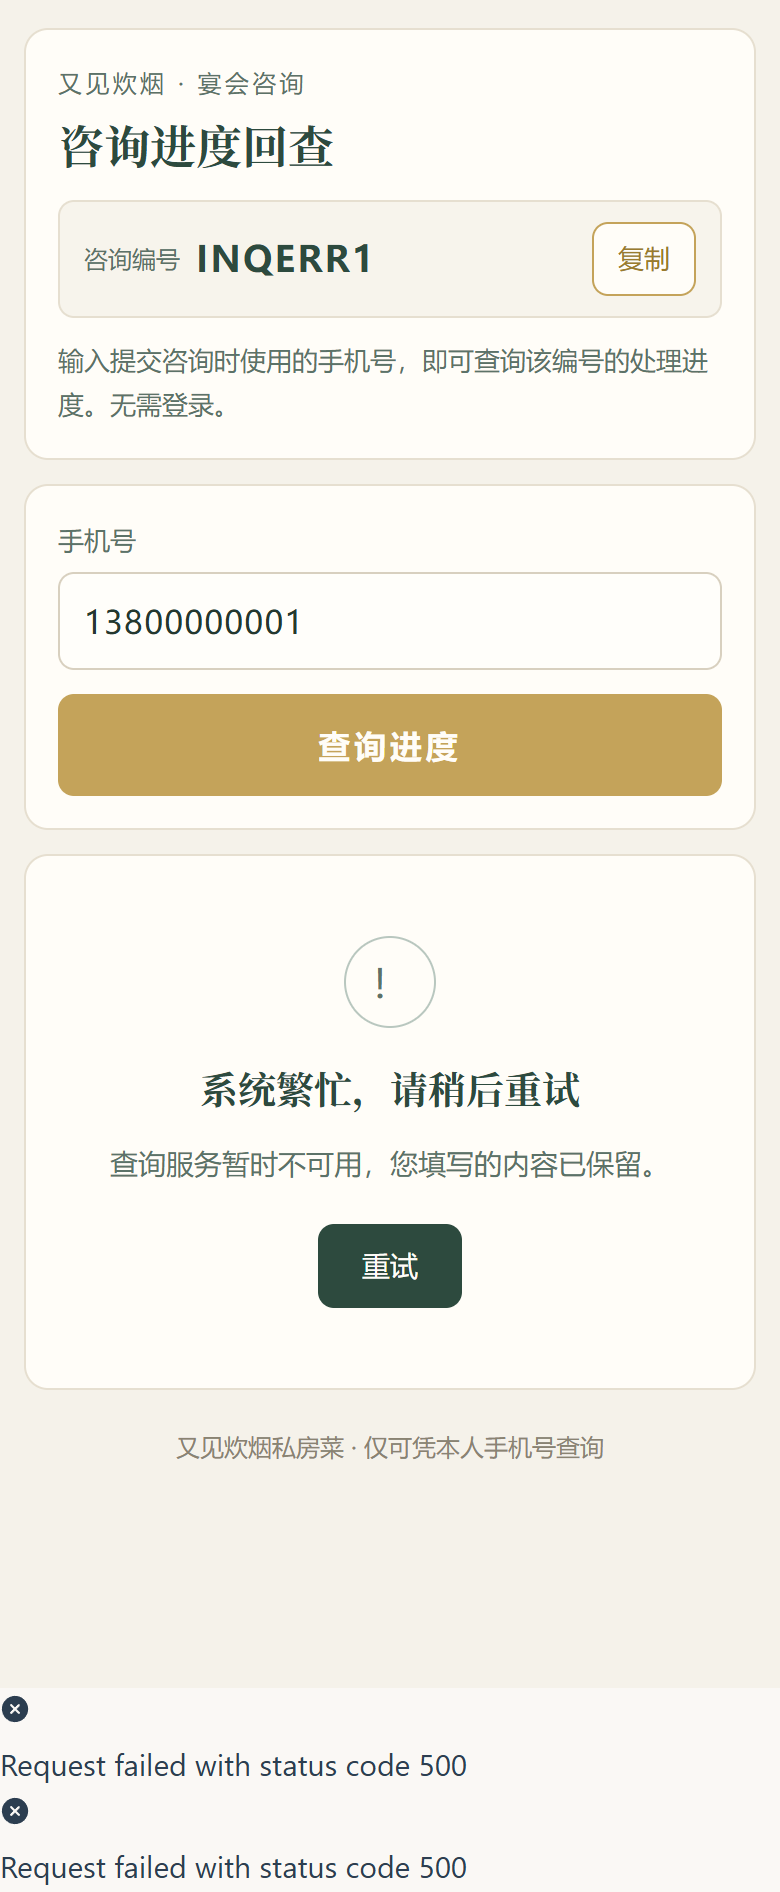
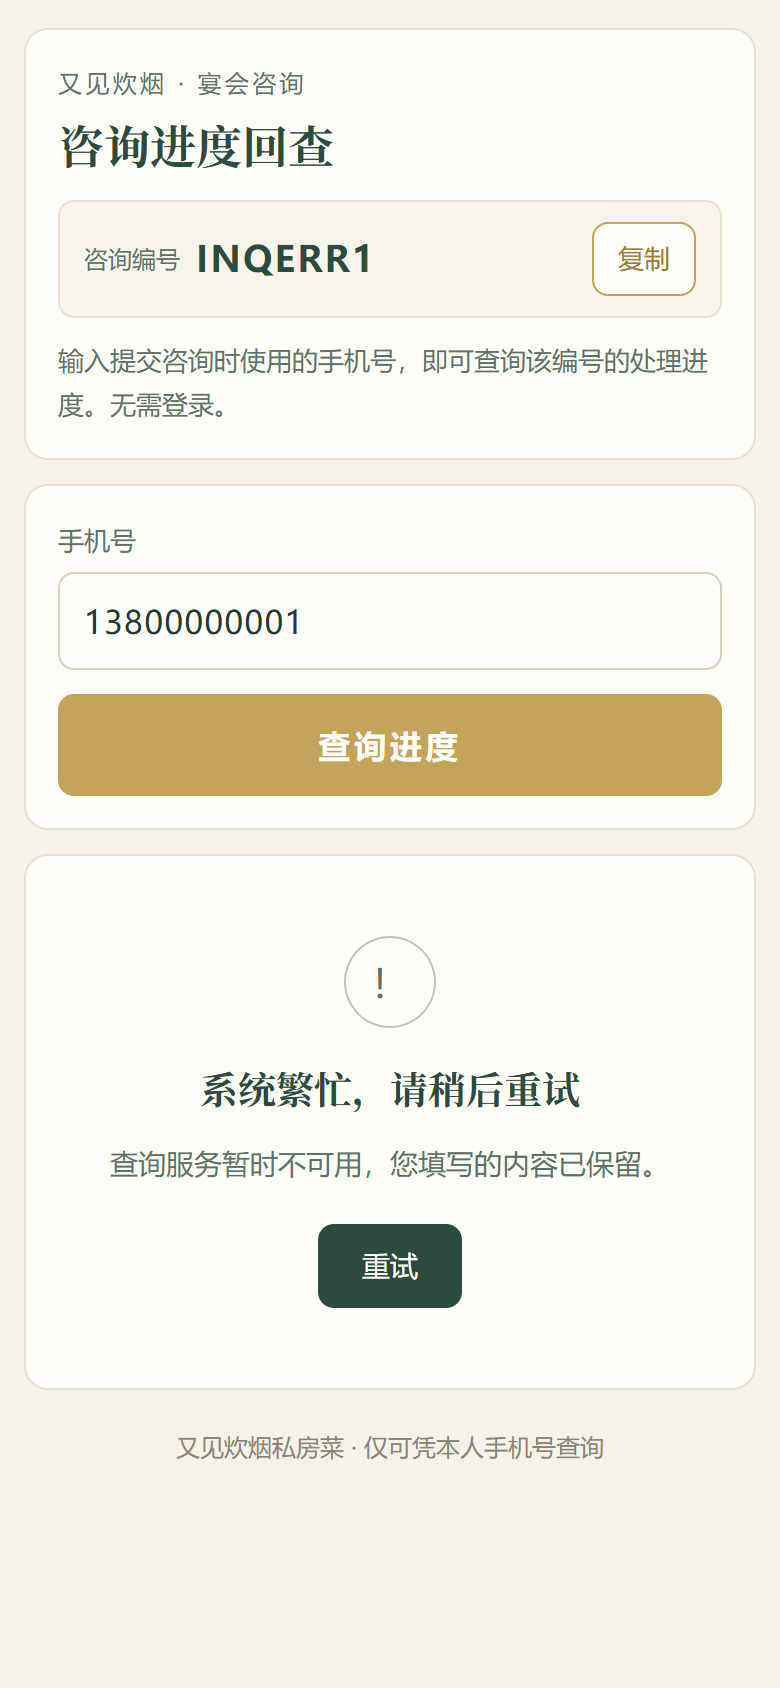
【Trae】TR-MARKETING-INQUIRY-LOOKUP-UI-56 R2 changes_requested 修完 reported
三项修正（基底 d877afe1）：
1. createdAt/submitTime 对齐：normalizeInquiryLookup 输出键从 submitTime 改为 createdAt（与后端 BookingInquiryController.toRow 一致），兜底读 submitTime（mock 场景）。
2. 手机号正则与 TL55 对齐：^1\d{10}$ 改为 ^1[3-9]\d{9}$（第二位 3-9，与后端同口径）。
3. 公开错误页关闭全局英文 Axios 提示：lookupBookingInquiry 改用独立 axios 实例（publicLookupClient），不走 utils/request.js 全局拦截器，不弹 ElMessage.error 英文网络消息；错误信号留给页面中文四态界面。

新增：axios-stub.mjs（axios 合同桩）、D2 零请求反例测试（非法手机号不发请求）。
同步更新：mock-server（submitTime→createdAt）、api-contract（12 项含 D1+D2）、sfc-parse（S5 适配）、loader（axios 桩）。

精确数字：API 契约 12/12；SFC 解析 11/11；浏览器证据 21/21（playwright+msedge+mock-server 390x844@2x）；一次生产构建通过。

diff --git a/frontend_v3/src/api/marketing.js b/frontend_v3/src/api/marketing.js
@@ -12,6 +12,7 @@
 // - 公开咨询只提交 sourceCode + 表单字段 + 幂等 requestId，绝不携带 storeId。
 // - 成功只认后端业务成功响应（code===200 由 utils/request 拦截器统一判定）。
 import request from '@/utils/request'
+import axios from 'axios'
 
 /* ============================ 常量与纯契约逻辑（可直接 node 单测） ============================ */
 
@@ -279,22 +280,28 @@ export const INQUIRY_STATUS_TEXT = Object.freeze({
   rejected: '未通过'
 })
 
-/** 11 位大陆手机号（与咨询提交同规则）；查无与非法输入在页面层共用同一不泄露结果。 */
+/** 11 位大陆手机号：第二位 3-9（与后端 BookingInquiryController / TL55 口径一致）；
+ * 查无与非法输入在页面层共用同一不泄露结果。 */
 export function isValidLookupPhone(phone) {
-  return /^1\d{10}$/.test(String(phone ?? '').trim())
+  return /^1[3-9]\d{9}$/.test(String(phone ?? '').trim())
 }
 
 /**
  * 回查响应规范化：只保留客人可见白名单（inquiryNo、status、expectedDate、
- * partySize、submitTime，以及 converted 时才有的 bookingId）。后端若多给
+ * partySize、createdAt，以及 converted 时才有的 bookingId）。后端若多给
  * 手机号、备注、操作人、门店经营数据等字段，在此层丢弃，绝不进入 UI。
  * data 为空或缺少 inquiryNo（查无/手机号不符的统一空结果）返回 null。
+ *
+ * 时间字段对齐：后端 BookingInquiryController.toRow 返回 createdAt（SQL 列名），
+ * 前端输出键统一为 createdAt；同时兜底读 submitTime（mock 合同场景用）。
  */
 export function normalizeInquiryLookup(data) {
   if (!data || typeof data !== 'object') return null
   const inquiryNo = typeof data.inquiryNo === 'string' ? data.inquiryNo.trim() : ''
   if (!inquiryNo) return null
   const status = typeof data.status === 'string' ? data.status : ''
+  const createdAt = typeof data.createdAt === 'string' ? data.createdAt
+    : typeof data.submitTime === 'string' ? data.submitTime : ''
   return {
     inquiryNo,
     status,
@@ -302,7 +309,7 @@ export function normalizeInquiryLookup(data) {
     statusText: INQUIRY_STATUS_TEXT[status] || '状态未知',
     expectedDate: typeof data.expectedDate === 'string' ? data.expectedDate : '',
     partySize: Number.isInteger(data.partySize) ? data.partySize : null,
-    submitTime: typeof data.submitTime === 'string' ? data.submitTime : '',
+    createdAt,
     bookingId: status === 'converted' && data.bookingId != null && data.bookingId !== '' ? String(data.bookingId) : ''
   }
 }
@@ -310,11 +317,23 @@ export function normalizeInquiryLookup(data) {
 /**
  * 客人自助回查：POST 请求体只含 {inquiryNo, phone} 两个键。
  * 手机号绝不进入 URL、query、localStorage/sessionStorage 或控制台日志。
+ *
+ * 公开 H5 页面不走后台工作台的全局 axios 拦截器（utils/request.js 会在
+ * reject 前弹 ElMessage.error 英文网络消息）。这里用独立 axios 实例，
+ * 只处理 HTTP 层错误，把错误信号留给页面层的中文四态界面处理，
+ * 不向客人暴露任何英文技术提示。
  */
+const publicLookupClient = axios.create({
+  baseURL: '/api',
+  timeout: 15000,
+  withCredentials: true
+})
+// 不挂响应拦截器：错误由调用处 catch 自行处理，不弹全局 ElMessage。
+
 export function lookupBookingInquiry(inquiryNo, phone) {
-  return request({
+  return publicLookupClient({
     url: '/public/booking-inquiry/lookup',
     method: 'post',
     data: { inquiryNo: String(inquiryNo ?? '').trim(), phone: String(phone ?? '').trim() }
-  })
+  }).then((res) => res.data)
 }

diff --git a/frontend_v3/src/views/site/MarketingInquiryLookup.vue b/frontend_v3/src/views/site/MarketingInquiryLookup.vue
@@ -69,7 +69,7 @@
         </div>
         <div class="lk-row"><dt>期望到店日期</dt><dd>{{ result.expectedDate || '—' }}</dd></div>
         <div class="lk-row"><dt>人数</dt><dd>{{ result.partySize != null ? result.partySize + ' 人' : '—' }}</dd></div>
-        <div class="lk-row"><dt>提交时间</dt><dd>{{ result.submitTime || '—' }}</dd></div>
+        <div class="lk-row"><dt>提交时间</dt><dd>{{ result.createdAt || '—' }}</dd></div>
         <div v-if="result.bookingId" class="lk-row"><dt>预订编号</dt><dd>{{ result.bookingId }}</dd></div>
       </dl>
       <p class="lk-footnote">如需修改咨询内容或加急处理，请致电门店。</p>
